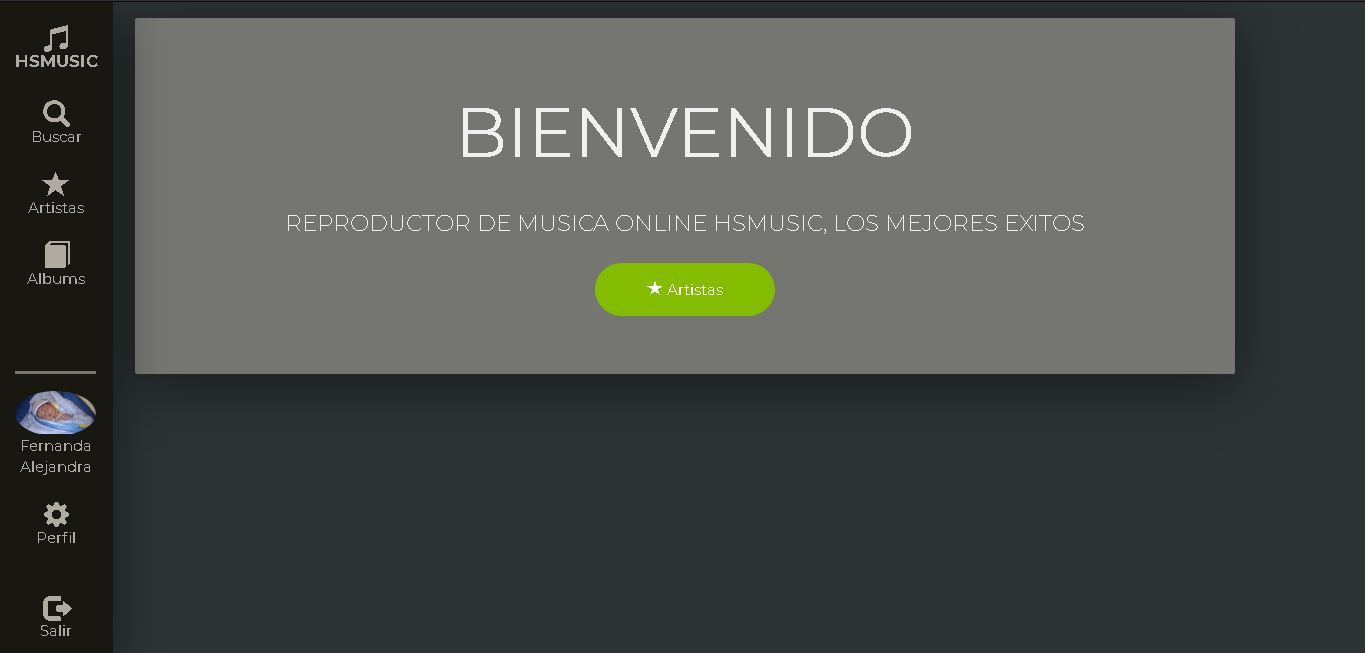
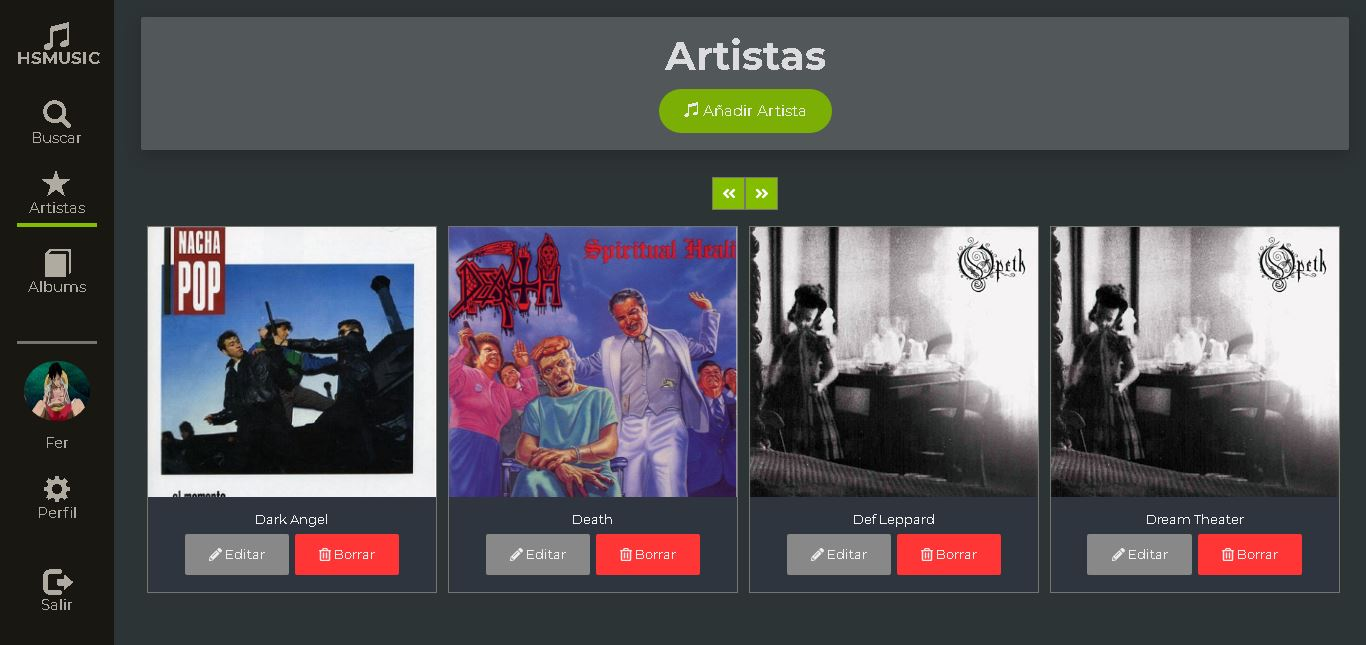
Actualizacion imagen para la descripcion

diff --git a/README.md b/README.md
@@ -13,7 +13,7 @@ Web application, similar to spotify using
 ## SITE
 <p align="center">
 <img src="./Doc/img/HSMUSIC.JPG" title="Welcome User." >
-<div align="center"> Site Home user.</div>
+<div align="center"> Artist Section.</div>
 </p>
 
 ## About me
